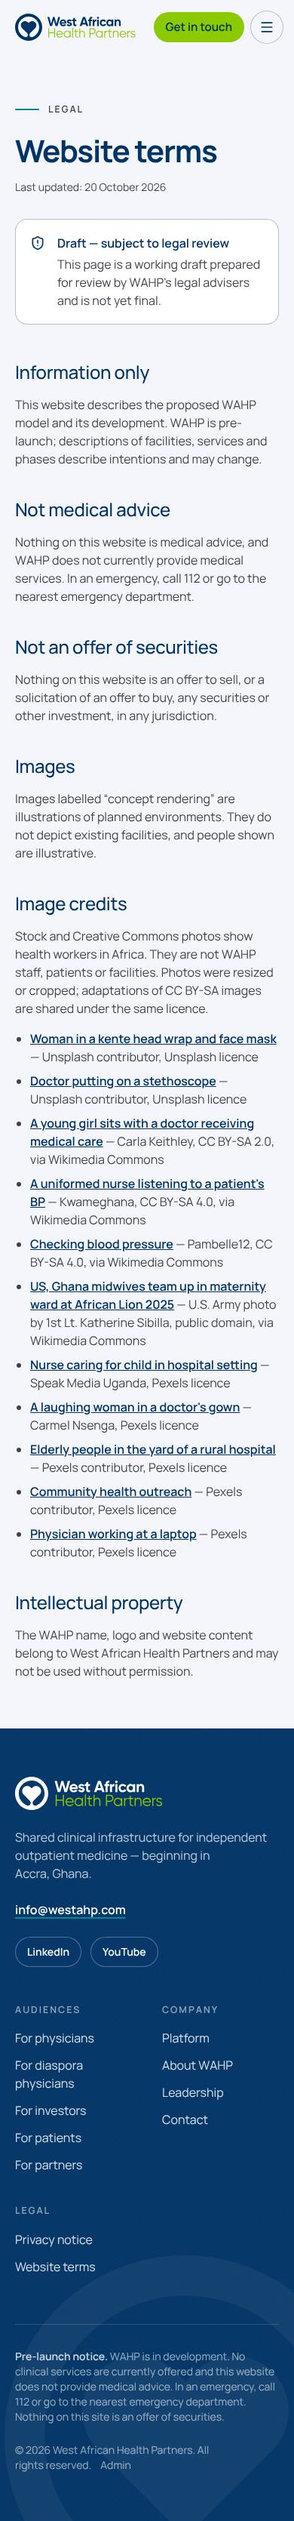
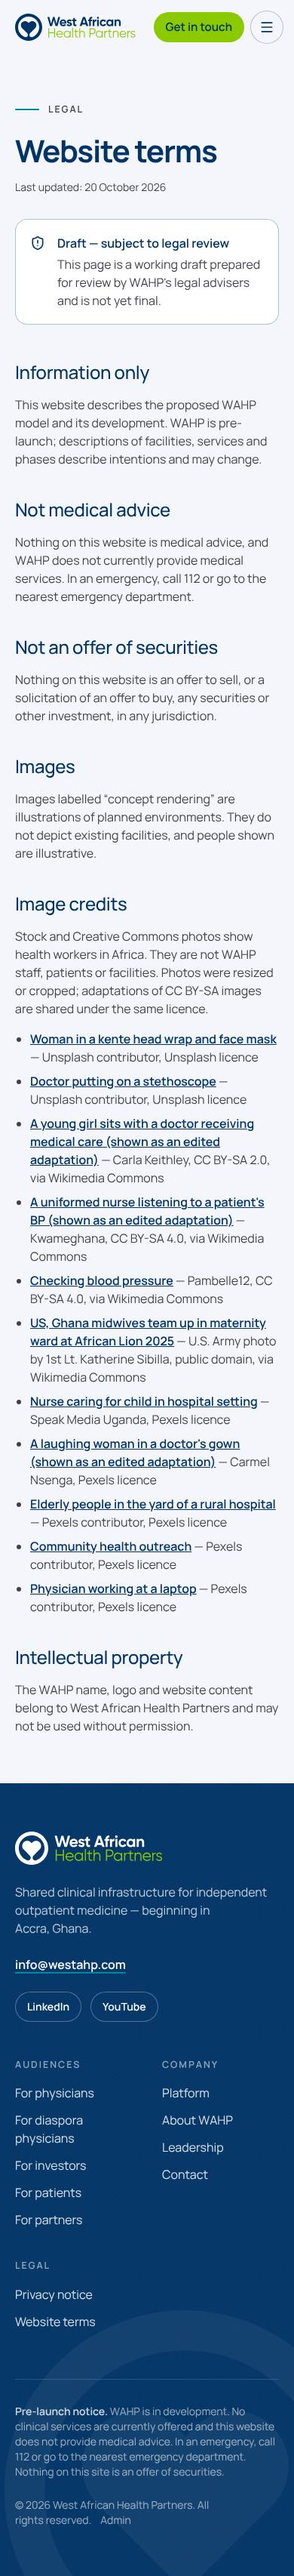
Swap in the owner's edited versions of three photos
The physician-with-child, community screening and doctor-in-scrubs
images are replaced with the owner-supplied AI-edited versions, badged
"Illustrative image" and credited as adaptations of the original
photographers' work (CC BY-SA / Pexels), with the Terms credits updated.

Claude-Session: https://claude.ai/code/session_01HnAJZsQvwk15KduVTL9xGz

diff --git a/src/components/ui/site-image.tsx b/src/components/ui/site-image.tsx
@@ -77,15 +77,15 @@ const images = {
 
   doctorChildConsultation: {
     src: doctorChildConsultation,
-    kind: "stock",
-    credit: "Photo: Carla Keithley, CC BY-SA 2.0",
-    alt: "A doctor with a stethoscope sits with a young girl in a clinic in Nigeria.",
+    kind: "illustrative",
+    credit: "Adapted from a photo by Carla Keithley, CC BY-SA 2.0",
+    alt: "A doctor in a white coat and stethoscope holds a young girl in a pink wrap in a bright, modern consulting room.",
   },
   communityScreening: {
     src: communityScreening,
-    kind: "stock",
-    credit: "Photo: Kwameghana, CC BY-SA 4.0",
-    alt: "A Ghanaian nurse in uniform measures a patient's blood pressure at a community health screening.",
+    kind: "illustrative",
+    credit: "Adapted from a photo by Kwameghana, CC BY-SA 4.0",
+    alt: "A nurse in a green uniform takes a patient's blood pressure at an outdoor community health screening.",
   },
   clinicBpCheck: {
     src: clinicBpCheck,
@@ -119,10 +119,10 @@ const images = {
   },
   doctorClinicKinshasa: {
     src: doctorClinicKinshasa,
-    kind: "stock",
-    position: "50% 22%",
-    credit: "Photo: Carmel Nsenga / Pexels",
-    alt: "A smiling doctor in green scrubs with a stethoscope in a clinic.",
+    kind: "illustrative",
+    position: "50% 30%",
+    credit: "Adapted from a photo by Carmel Nsenga / Pexels",
+    alt: "A laughing doctor in green scrubs with a stethoscope in a bright clinic.",
   },
   doctorStethoscope: {
     src: doctorStethoscope,

diff --git a/src/app/(site)/terms/page.tsx b/src/app/(site)/terms/page.tsx
@@ -21,13 +21,13 @@ const credits = [
     href: "https://unsplash.com/photos/9aBsCd9Fvgc",
   },
   {
-    title: "A young girl sits with a doctor receiving medical care",
+    title: "A young girl sits with a doctor receiving medical care (shown as an edited adaptation)",
     by: "Carla Keithley",
     licence: "CC BY-SA 2.0, via Wikimedia Commons",
     href: "https://commons.wikimedia.org/wiki/File:A_young_girl_sits_with_a_doctor_receiving_medical_care.jpg",
   },
   {
-    title: "A uniformed nurse listening to a patient's BP",
+    title: "A uniformed nurse listening to a patient's BP (shown as an edited adaptation)",
     by: "Kwameghana",
     licence: "CC BY-SA 4.0, via Wikimedia Commons",
     href: "https://commons.wikimedia.org/wiki/File:A_uniformed_nurse_listening_to_a_patient%27s_BP.jpg",
@@ -51,7 +51,7 @@ const credits = [
     href: "https://www.pexels.com/photo/34185202/",
   },
   {
-    title: "A laughing woman in a doctor's gown",
+    title: "A laughing woman in a doctor's gown (shown as an edited adaptation)",
     by: "Carmel Nsenga",
     licence: "Pexels licence",
     href: "https://www.pexels.com/photo/18844981/",

diff --git a/docs/ASSET_INVENTORY.md b/docs/ASSET_INVENTORY.md
@@ -31,12 +31,12 @@
 
 | File | Source | Licence | Credit |
 | --- | --- | --- | --- |
-| `doctor-child-consultation.webp` | Wikimedia Commons, "A young girl sits with a doctor receiving medical care" (Nigeria) | CC BY-SA 2.0 | Carla Keithley |
-| `community-bp-screening.webp` | Wikimedia Commons, "A uniformed nurse listening to a patient's BP" (Ghana) | CC BY-SA 4.0 | Kwameghana |
+| `doctor-child-consultation.webp` | Owner-supplied AI-edited adaptation (21 Oct 2026) of Wikimedia Commons, "A young girl sits with a doctor receiving medical care" (Nigeria) | CC BY-SA 2.0 | Carla Keithley |
+| `community-bp-screening.webp` | Owner-supplied AI-edited adaptation (21 Oct 2026) of Wikimedia Commons, "A uniformed nurse listening to a patient's BP" (Ghana) | CC BY-SA 4.0 | Kwameghana |
 | `clinic-bp-check.webp` | Wikimedia Commons, "Checking blood pressure" | CC BY-SA 4.0 | Pambelle12 |
 | `midwives-newborn.webp` | Wikimedia Commons, "US, Ghana midwives team up in maternity ward at African Lion 2025" | Public domain (U.S. Government) | U.S. Army, 1st Lt. Katherine Sibilla |
 | `nurse-child-ward.webp` | Pexels 34185202 | Pexels licence | Speak Media Uganda |
-| `doctor-clinic-kinshasa.webp` | Pexels 18844981 (Kinshasa) | Pexels licence | Carmel Nsenga |
+| `doctor-clinic-kinshasa.webp` | Owner-supplied AI-edited adaptation (21 Oct 2026) of Pexels 18844981 (Kinshasa) | Pexels licence | Carmel Nsenga |
 | `doctor-stethoscope.webp` | Unsplash 9aBsCd9Fvgc, supplied by the owner from westahp.com (Squarespace CDN) | Unsplash licence | Unsplash contributor (name to confirm) |
 | `patient-portrait.webp` | Unsplash gi3Jox2cdrI, supplied by the owner from westahp.com; re-encoded from the 2500px original | Unsplash licence | Unsplash contributor (name to confirm) |
 | `village-hospital-yard.webp` | Pexels 4483669 | Pexels licence | Pexels contributor (name to confirm) |
@@ -48,3 +48,5 @@
 **Kept from the source sites (no doctor shown):** `pillar-laboratory`, `pillar-imaging` (technologist), `founders`. The `patient-journey` diagram was redrawn as an animated SVG (`components/graphics/patient-journey.tsx`) and the image removed.
 
 **Not used:** stock photos showing identifiable public figures or named individuals (for example, a UK minister's hospital visit and a profile photo of a named Korle Bu nurse), and US military surgical-mission photos.
+
+**Adaptations (21 Oct 2026).** At the owner's request, `doctor-child-consultation`, `community-bp-screening` and `doctor-clinic-kinshasa` were replaced with owner-supplied AI-edited versions of the same photos, which show the same people in new settings. They are badged "Illustrative image" and credited "Adapted from a photo by …". The two CC BY-SA adaptations are shared under the same licence (see `/terms#image-credits`). **Owner to confirm** comfort with showing identifiable people in edited settings. The `clinic-bp-check` replacement has not yet been supplied as a file.

diff --git a/docs/IMPLEMENTATION_LOG.md b/docs/IMPLEMENTATION_LOG.md
@@ -157,3 +157,7 @@
 - Its header and FAQs are editable in the site admin.
 - Navigation, footer, sitemap and e2e routes include the new page.
 - Home "Who we serve" cards follow the newer build's card style: accent top edge, WAHP mark on the photo, one line of copy, a divider and one call to action. Diaspora physicians get their own card, so there are five cards: three leading, two wide. Accents use brand teal and navy, since green stays reserved for buttons.
+
+## 21 Oct 2026, owner-supplied photo adaptations
+
+- Replaced `doctor-child-consultation`, `community-bp-screening` and `doctor-clinic-kinshasa` with the owner's AI-edited versions. Each is badged "Illustrative image" and credited "Adapted from a photo by …"; the Terms image credits note the edits. The `clinic-bp-check` replacement (Platform, Suites tab) is still awaited as a file.
